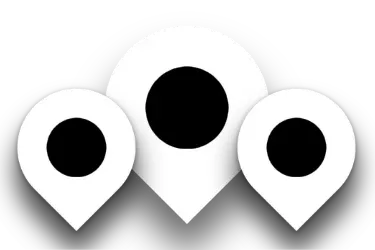
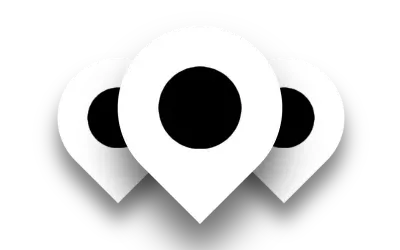
better clusters

diff --git a/src/components/MainMap/MainMap.vue b/src/components/MainMap/MainMap.vue
@@ -212,7 +212,7 @@ onMounted(async () => {
     if (IS_LOCALHOST) {
       marker = await map.map.loadImage('/src/assets/marker-dark-shadow.webp');
       clusterMarker = await map.map.loadImage(
-        '/src/assets/marker-cluster-4.webp'
+        '/src/assets/marker-cluster.webp'
       );
       /*
       clusterMarker2 = await map.map.loadImage(
@@ -233,7 +233,7 @@ onMounted(async () => {
         'https://content.partymap.com/statics/marker-dark-shadow.webp'
       );
       clusterMarker = await map.map.loadImage(
-        '/src/assets/marker-dark-shadow-2.webp'
+        '/src/assets/marker-cluster.webp'
       );
     }
     if (marker)
